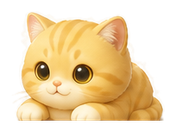
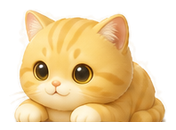
Refine pet token badge layering

diff --git a/apps/desktop/src/components/GoldCat.tsx b/apps/desktop/src/components/GoldCat.tsx
@@ -5,6 +5,11 @@ const petAssets = {
   icon: "assets/pets/cat-icon.png",
 };
 
+const pawAssets = {
+  desktop: "assets/pets/cat-paws-desktop.png",
+  summary: "assets/pets/cat-paws-summary.png",
+};
+
 export function GoldCat(props: { variant?: keyof typeof petAssets; className?: string }) {
   const variant = props.variant ?? "desktop";
 
@@ -12,6 +17,20 @@ export function GoldCat(props: { variant?: keyof typeof petAssets; className?: s
     <img
       className={`cat-image cat-image-${variant} ${props.className ?? ""}`}
       src={petAssets[variant]}
+      alt=""
+      draggable={false}
+      aria-hidden="true"
+    />
+  );
+}
+
+export function CatPaws(props: { variant?: keyof typeof pawAssets; className?: string }) {
+  const variant = props.variant ?? "desktop";
+
+  return (
+    <img
+      className={`cat-paws-image cat-paws-image-${variant} ${props.className ?? ""}`}
+      src={pawAssets[variant]}
       alt=""
       draggable={false}
       aria-hidden="true"

diff --git a/apps/desktop/src/styles/pet.css b/apps/desktop/src/styles/pet.css
@@ -104,6 +104,20 @@
   z-index: 1;
 }
 
+.cat-paws-image {
+  position: absolute;
+  left: 50%;
+  bottom: 61px;
+  display: block;
+  width: 92px;
+  height: auto;
+  pointer-events: none;
+  user-select: none;
+  transform: translateX(-51%);
+  filter: drop-shadow(0 5px 7px rgba(91, 55, 10, 0.12));
+  z-index: 3;
+}
+
 .cat-image-summary {
   width: 72px;
 }
@@ -250,10 +264,11 @@
 
 .token-pill {
   position: absolute;
-  right: 20px;
-  bottom: 20px;
-  min-width: 76px;
-  padding: 8px 11px;
+  right: auto;
+  bottom: 36px;
+  left: 50%;
+  min-width: 98px;
+  padding: 10px 16px 9px;
   border: 1px solid rgba(105, 62, 13, 0.18);
   border-radius: 999px;
   color: var(--pet-pill-text);
@@ -266,6 +281,8 @@
   font-weight: 800;
   line-height: 1;
   letter-spacing: 0;
+  transform: translateX(-50%);
+  z-index: 2;
 }
 
 .token-pill:hover {

diff --git a/apps/desktop/src/views/PetApp.tsx b/apps/desktop/src/views/PetApp.tsx
@@ -1,5 +1,5 @@
 import { useState } from "react";
-import { GoldCat } from "../components/GoldCat";
+import { CatPaws, GoldCat } from "../components/GoldCat";
 import { useAppSettings } from "../hooks/useAppSettings";
 import { useUsage } from "../hooks/useUsage";
 import { compactNumber } from "../utils/format";
@@ -52,6 +52,7 @@ export function PetApp() {
       >
         {compactNumber(usage.todayTokens)}
       </button>
+      <CatPaws />
       <button className="pet-close" type="button" aria-label="Close QuotaPet" onPointerDown={close} onClick={close}>
         x
       </button>
